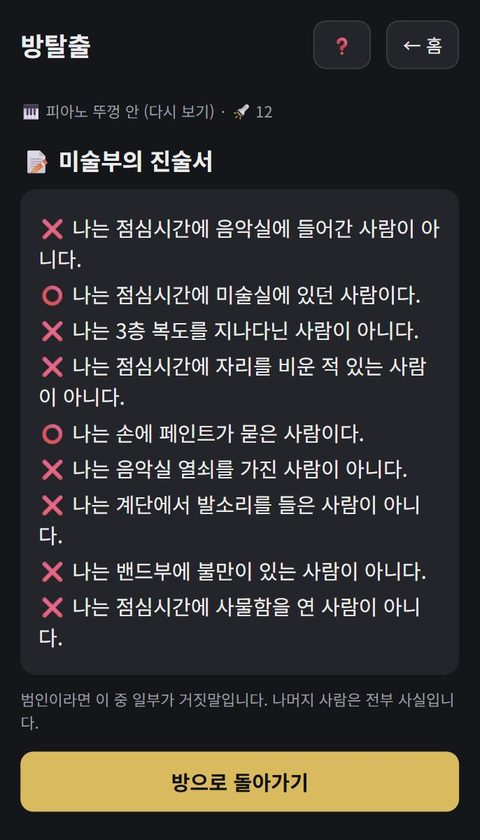
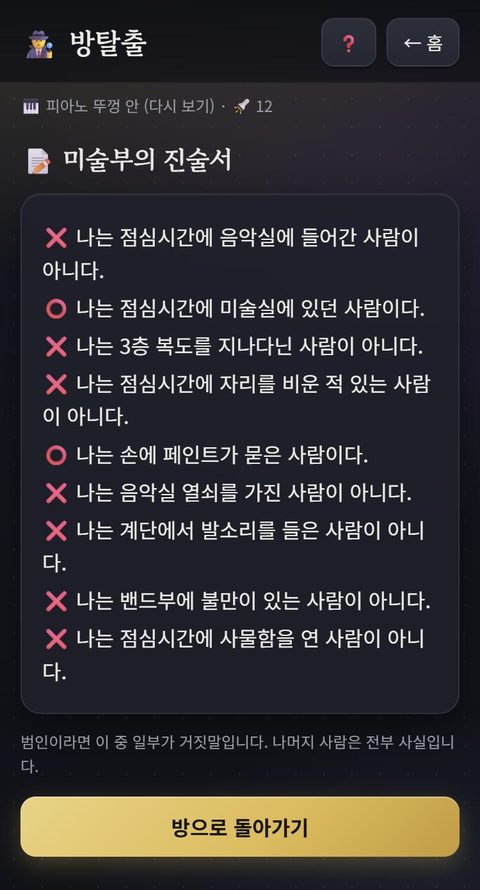
다크 노와르 테마로 리디자인
- style.css 전면 교체: 다층 그라데이션 + 점 패턴 배경, 반투명 카드·그림자, 금색 그라데이션 버튼,
  세리프 제목 글꼴(Gowun Batang), 비밀 카드 리본, 분류별 색띠 모드 카드, 등장 애니메이션, 시트 슬라이드업
- index.html: Google Fonts 링크 (오프라인이면 시스템 글꼴)
- app.js: 모드 카드에 분류 클래스, guide.js: 일일 사건 배지 정리
- img/guide: 새 디자인으로 예시 화면 18장 재촬영
- CLAUDE.md 디자인 규칙 추가

diff --git a/style.css b/style.css
@@ -1,56 +1,120 @@
+/* 탐정 사무소 — 다크 노와르 테마
+   토큰 → 배경 → 타이포 → 버튼 → 카드/입력 → 홈 → 모드별 부품 → 설명 시트 → 애니메이션 */
+
 :root {
-  --bg: #15161a;
-  --card: #23252b;
-  --card2: #2b2e36;
-  --text: #ececec;
-  --muted: #9a9ca3;
-  --accent: #e8b84a;
+  --bg: #0e1016;
+  --bg2: #151823;
+  --card: rgba(29, 32, 43, .88);
+  --card-solid: #1d202b;
+  --card2: #272b38;
+  --text: #ecebe6;
+  --muted: #9b9ea9;
+  --accent: #e9b94a;
+  --accent-2: #f3d27a;
+  --accent-ink: #1a1407;
   --danger: #e2574c;
-  --ok: #58b36a;
-  --border: #3a3d45;
+  --ok: #4fbf78;
+  --info: #7aa2f7;
+  --purple: #c678dd;
+  --border: rgba(255, 255, 255, .08);
+  --border-strong: rgba(255, 255, 255, .14);
+  --shadow: 0 10px 30px rgba(0, 0, 0, .45), 0 1px 0 rgba(255, 255, 255, .04) inset;
+  --radius: 16px;
+  --font: "Pretendard", "Noto Sans KR", -apple-system, "Malgun Gothic", sans-serif;
+  --font-display: "Gowun Batang", "Noto Serif KR", "Pretendard", serif;
 }
+
 * { box-sizing: border-box; }
 html { background: var(--bg); }
 body {
-  margin: 0 auto; background: var(--bg); color: var(--text);
-  font-family: -apple-system, "Pretendard", "Noto Sans KR", "Malgun Gothic", sans-serif;
-  max-width: 520px; padding: 0 16px 40px;
+  margin: 0 auto; min-height: 100vh; color: var(--text);
+  font-family: var(--font); max-width: 540px; padding: 0 16px 48px;
+  background:
+    radial-gradient(900px 500px at 15% -10%, rgba(233, 185, 74, .22), transparent 60%),
+    radial-gradient(700px 500px at 110% 105%, rgba(90, 140, 200, .20), transparent 60%),
+    radial-gradient(500px 400px at 85% 20%, rgba(198, 120, 221, .10), transparent 60%),
+    radial-gradient(rgba(255, 255, 255, .045) 1px, transparent 1.2px) 0 0 / 22px 22px,
+    linear-gradient(180deg, var(--bg2), var(--bg));
+  background-attachment: fixed;
+  -webkit-font-smoothing: antialiased;
 }
-header { display: flex; align-items: center; gap: 12px; padding: 16px 0; }
-h1 { font-size: 20px; margin: 0; flex: 1; }
-h2 { font-size: 18px; margin: 16px 0 8px; }
-h3 { font-size: 16px; margin: 12px 0 6px; }
-p { line-height: 1.5; margin: 8px 0; }
+body.no-scroll { overflow: hidden; }
+
+/* ---------- 타이포 ---------- */
+h1, h2, h3 { font-family: var(--font-display); letter-spacing: -.01em; }
+h1 { font-size: 22px; margin: 0; flex: 1; display: flex; align-items: center; gap: 8px; }
+h1::before { content: "🕵"; font-size: 22px; }
+h2 { font-size: 20px; margin: 18px 0 8px; }
+h3 { font-size: 16px; margin: 14px 0 6px; color: var(--accent-2); }
+p { line-height: 1.6; margin: 8px 0; }
 .muted { color: var(--muted); font-size: 14px; }
 .small-text { font-size: 12px; }
 .center { text-align: center; }
 .grow { flex: 1; }
-.big { font-size: 48px; margin: 12px 0; }
+.big { font-size: 52px; margin: 12px 0; line-height: 1.1; filter: drop-shadow(0 6px 12px rgba(0, 0, 0, .4)); }
 
-button {
-  background: var(--card); color: var(--text); border: 1px solid var(--border);
-  border-radius: 10px; padding: 12px 14px; font-size: 16px; cursor: pointer;
-  width: 100%; margin: 6px 0; text-align: left; font-family: inherit;
+/* ---------- 헤더 ---------- */
+header {
+  position: sticky; top: 0; z-index: 10; display: flex; align-items: center; gap: 8px;
+  padding: 14px 0 12px; margin: 0 -16px 6px; padding-left: 16px; padding-right: 16px;
+  background: linear-gradient(180deg, rgba(14, 16, 22, .95), rgba(14, 16, 22, .75));
+  backdrop-filter: blur(10px); -webkit-backdrop-filter: blur(10px);
+  border-bottom: 1px solid var(--border);
 }
-button:active { transform: scale(.99); }
-button.primary { background: var(--accent); color: #111; border: none; font-weight: 600; text-align: center; }
-button.danger { background: var(--danger); color: #fff; border: none; text-align: center; }
-button.ok { background: var(--ok); color: #fff; border: none; text-align: center; }
-button.small { width: auto; padding: 8px 12px; font-size: 14px; margin: 0; }
-button.mode b { display: block; margin-bottom: 2px; }
-button:disabled { opacity: .4; cursor: default; }
-header button { width: auto; margin: 0; padding: 8px 12px; font-size: 14px; }
+header button { width: auto; margin: 0; padding: 8px 12px; font-size: 14px; border-radius: 10px; }
+#help { padding: 8px 11px; }
 
-.card { background: var(--card); border-radius: 12px; padding: 14px; margin: 10px 0; }
-.card.alert { border: 1px solid var(--danger); }
-.card.good { border: 1px solid var(--ok); }
-.secret { background: #2a2420; border: 1px dashed var(--accent); }
+/* ---------- 버튼 ---------- */
+button {
+  background: linear-gradient(180deg, #2a2e3b, #222633); color: var(--text);
+  border: 1px solid var(--border); border-radius: 12px; padding: 12px 14px; font-size: 16px;
+  cursor: pointer; width: 100%; margin: 6px 0; text-align: left; font-family: inherit;
+  box-shadow: 0 2px 0 rgba(0, 0, 0, .25);
+  transition: transform .08s ease, border-color .15s ease, box-shadow .15s ease, filter .15s ease;
+}
+button:hover { border-color: var(--border-strong); filter: brightness(1.08); }
+button:active { transform: translateY(1px) scale(.995); box-shadow: none; }
+button.primary {
+  background: linear-gradient(135deg, var(--accent-2), var(--accent) 60%, #cf9a2f);
+  color: var(--accent-ink); border: none; font-weight: 700; text-align: center;
+  box-shadow: 0 6px 18px rgba(233, 185, 74, .28), 0 1px 0 rgba(255, 255, 255, .35) inset;
+}
+button.danger {
+  background: linear-gradient(135deg, #ef6b60, var(--danger) 70%, #b8382f);
+  color: #fff; border: none; text-align: center; font-weight: 600;
+  box-shadow: 0 6px 18px rgba(226, 87, 76, .25);
+}
+button.ok { background: linear-gradient(135deg, #63d08a, var(--ok)); color: #06200f; border: none; text-align: center; font-weight: 600; }
+button.small { width: auto; padding: 8px 12px; font-size: 14px; margin: 0; }
+button.mode { border-left: 3px solid var(--accent); padding-left: 14px; }
+button.mode b { display: block; margin-bottom: 2px; font-family: var(--font-display); font-size: 16px; }
+button:disabled { opacity: .4; cursor: default; filter: none; transform: none; }
+
+/* ---------- 카드 / 입력 ---------- */
+.card {
+  background: var(--card); border: 1px solid var(--border); border-radius: var(--radius);
+  padding: 16px; margin: 12px 0; box-shadow: var(--shadow);
+  backdrop-filter: blur(6px); -webkit-backdrop-filter: blur(6px);
+}
+.card.alert { border-color: rgba(226, 87, 76, .55); box-shadow: 0 10px 30px rgba(226, 87, 76, .12); }
+.card.good { border-color: rgba(79, 191, 120, .55); box-shadow: 0 10px 30px rgba(79, 191, 120, .10); }
+.secret {
+  position: relative; overflow: hidden;
+  background: linear-gradient(160deg, #2f271b, #211c15 70%);
+  border: 1px dashed rgba(233, 185, 74, .65);
+}
+.secret::after {
+  content: "비밀"; position: absolute; top: 10px; right: -26px; transform: rotate(35deg);
+  background: var(--accent); color: var(--accent-ink); font-size: 11px; font-weight: 700;
+  padding: 2px 32px; letter-spacing: .2em; opacity: .9;
+}
 
 input, select, textarea {
-  width: 100%; padding: 12px; font-size: 16px; border-radius: 10px;
-  border: 1px solid var(--border); background: var(--card); color: var(--text); margin: 6px 0;
-  font-family: inherit;
+  width: 100%; padding: 12px 14px; font-size: 16px; border-radius: 12px;
+  border: 1px solid var(--border-strong); background: #141722; color: var(--text); margin: 6px 0;
+  font-family: inherit; transition: border-color .15s, box-shadow .15s;
 }
+input:focus, select:focus, textarea:focus { outline: none; border-color: var(--accent); box-shadow: 0 0 0 3px rgba(233, 185, 74, .18); }
 select { appearance: auto; }
 textarea { resize: vertical; min-height: 60px; }
 
@@ -59,72 +123,122 @@ textarea { resize: vertical; min-height: 60px; }
 .row button { width: auto; flex: 0 0 auto; }
 .row button.grow { flex: 1; }
 
+/* ---------- 홈 ---------- */
+.hero {
+  position: relative; overflow: hidden;
+  background: linear-gradient(135deg, rgba(60, 46, 22, .92), rgba(29, 32, 43, .92) 65%);
+  border: 1px solid rgba(233, 185, 74, .35);
+}
+.hero::after {
+  content: "🔍"; position: absolute; right: -10px; bottom: -18px; font-size: 110px; opacity: .10;
+  transform: rotate(-12deg); pointer-events: none;
+}
+.hero h3 { margin-top: 0; color: var(--text); font-size: 19px; }
+.section-title {
+  display: flex; align-items: center; gap: 10px; font-size: 13px; color: var(--muted);
+  margin: 24px 0 6px; letter-spacing: .04em;
+}
+.section-title::after { content: ""; flex: 1; height: 1px; background: linear-gradient(90deg, var(--border-strong), transparent); }
+.mode-card {
+  --cat: var(--accent);
+  background: var(--card); border: 1px solid var(--border); border-left: 4px solid var(--cat);
+  border-radius: var(--radius); padding: 14px 16px; margin: 10px 0; box-shadow: var(--shadow);
+}
+.mode-card.type-party { --cat: var(--accent); }
+.mode-card.type-coop { --cat: var(--ok); }
+.mode-card.type-solo { --cat: var(--info); }
+.mode-card.type-daily { --cat: var(--purple); }
+.mode-card h3 { margin: 0 0 4px; font-size: 18px; color: var(--text); }
+.mode-card .row { margin-top: 10px; }
+.mode-card .row button { margin: 0; }
+.badges { display: flex; flex-wrap: wrap; gap: 5px; margin: 6px 0; }
+.badge {
+  font-size: 12px; background: rgba(255, 255, 255, .06); border: 1px solid var(--border);
+  border-radius: 999px; padding: 2px 9px; color: var(--muted);
+}
+.badge.key { color: var(--accent); border-color: rgba(233, 185, 74, .4); }
+
+/* ---------- 모드 공용 부품 ---------- */
 .fingers { font-size: 22px; letter-spacing: 2px; }
-.player { display: flex; justify-content: space-between; align-items: center; padding: 10px 0; border-bottom: 1px solid #333; gap: 8px; }
+.player { display: flex; justify-content: space-between; align-items: center; padding: 10px 0; border-bottom: 1px solid var(--border); gap: 8px; }
 .player:last-of-type { border-bottom: none; }
 .out { opacity: .4; text-decoration: line-through; }
-.tag { display: inline-block; background: #333; border-radius: 6px; padding: 2px 8px; font-size: 13px; margin: 2px; }
-.handoff { padding: 40px 0; }
+.tag { display: inline-block; background: var(--card2); border-radius: 6px; padding: 2px 8px; font-size: 13px; margin: 2px; }
+.handoff { padding: 48px 0; }
+.handoff .big { font-size: 72px; }
 
-/* 역할 카드 (이마 게임) */
-.role-card { text-align: center; padding: 24px 14px; }
-.role-card .role { font-size: 28px; font-weight: 700; color: var(--accent); margin: 6px 0; }
+/* 역할 카드 (이마 게임 / 이마 접기) */
+.role-card { text-align: center; padding: 28px 16px; }
+.role-card .role {
+  font-family: var(--font-display); font-size: 32px; font-weight: 700; margin: 6px 0;
+  background: linear-gradient(135deg, var(--accent-2), var(--accent)); -webkit-background-clip: text; background-clip: text; color: transparent;
+}
 .role-card .who { font-size: 18px; }
 
 /* 채팅 (AI 심문) */
-.chat { display: flex; flex-direction: column; gap: 8px; min-height: 200px; max-height: 55vh; overflow-y: auto; padding: 4px 0; }
-.bubble { max-width: 85%; padding: 10px 12px; border-radius: 14px; line-height: 1.45; white-space: pre-wrap; word-break: break-word; }
-.bubble.me { align-self: flex-end; background: var(--accent); color: #111; border-bottom-right-radius: 4px; }
-.bubble.them { align-self: flex-start; background: var(--card2); border-bottom-left-radius: 4px; }
+.chat {
+  display: flex; flex-direction: column; gap: 8px; min-height: 200px; max-height: 55vh; overflow-y: auto;
+  padding: 10px; background: rgba(0, 0, 0, .18); border: 1px solid var(--border); border-radius: var(--radius);
+}
+.bubble { max-width: 85%; padding: 10px 13px; border-radius: 16px; line-height: 1.5; white-space: pre-wrap; word-break: break-word; }
+.bubble.me { align-self: flex-end; background: linear-gradient(135deg, var(--accent-2), var(--accent)); color: var(--accent-ink); border-bottom-right-radius: 4px; }
+.bubble.them { align-self: flex-start; background: var(--card2); border: 1px solid var(--border); border-bottom-left-radius: 4px; }
 .bubble.sys { align-self: center; background: transparent; color: var(--muted); font-size: 13px; }
 .bubble.typing { opacity: .6; font-style: italic; }
-.suspect-tabs { display: flex; gap: 6px; overflow-x: auto; padding-bottom: 4px; }
-.suspect-tabs button { width: auto; flex: 0 0 auto; margin: 0; padding: 8px 12px; font-size: 14px; white-space: nowrap; }
-.suspect-tabs button.active { border-color: var(--accent); color: var(--accent); }
+.suspect-tabs { display: flex; gap: 6px; overflow-x: auto; padding-bottom: 6px; }
+.suspect-tabs button { width: auto; flex: 0 0 auto; margin: 0; padding: 8px 12px; font-size: 14px; white-space: nowrap; border-radius: 999px; }
+.suspect-tabs button.active { border-color: var(--accent); color: var(--accent); background: rgba(233, 185, 74, .10); }
 
 .rank li { padding: 6px 0; }
 
-/* 홈 */
-.section-title { font-size: 13px; color: var(--muted); margin: 20px 0 6px; letter-spacing: .3px; }
-.mode-card { background: var(--card); border-radius: 12px; padding: 14px; margin: 8px 0; }
-.mode-card h3 { margin: 0 0 4px; font-size: 17px; }
-.mode-card .row { margin-top: 10px; }
-.mode-card .row button { margin: 0; }
-.badges { display: flex; flex-wrap: wrap; gap: 4px; margin: 6px 0; }
-.badge { font-size: 12px; background: var(--card2); border-radius: 6px; padding: 2px 8px; color: var(--muted); }
-.badge.key { color: var(--accent); }
-.hero { background: linear-gradient(135deg, #2e2620, #23252b); border: 1px solid var(--border); }
-.hero h3 { margin-top: 0; }
+/* 방탈출 */
+.battery {
+  font-size: 16px; font-weight: 700; color: var(--accent); white-space: nowrap;
+  background: rgba(233, 185, 74, .10); border: 1px solid rgba(233, 185, 74, .35); border-radius: 999px; padding: 4px 12px;
+}
+.spots { display: grid; grid-template-columns: repeat(3, 1fr); gap: 10px; margin: 12px 0; }
+.spot {
+  margin: 0; padding: 12px 6px; min-height: 96px; font-size: 13px; text-align: center;
+  display: flex; flex-direction: column; align-items: center; justify-content: center; gap: 2px;
+  background: linear-gradient(180deg, #2b2f3c, #1f2230); border-radius: 14px;
+}
+.spot .emoji { font-size: 28px; line-height: 1.2; filter: drop-shadow(0 4px 8px rgba(0, 0, 0, .4)); }
+.spot.done { border-color: rgba(233, 185, 74, .55); background: linear-gradient(180deg, #332b1c, #241f16); }
+.statement p { margin: 4px 0; }
 
-/* 설명 시트 */
-body.no-scroll { overflow: hidden; }
-.overlay { position: fixed; inset: 0; background: rgba(0, 0, 0, .6); z-index: 50; display: flex; justify-content: center; align-items: flex-end; }
+/* ---------- 설명 시트 ---------- */
+.overlay { position: fixed; inset: 0; background: rgba(5, 6, 10, .7); z-index: 50; display: flex; justify-content: center; align-items: flex-end; backdrop-filter: blur(3px); }
 .overlay[hidden] { display: none; }
 .sheet {
-  background: var(--bg); width: 100%; max-width: 520px; max-height: 92vh; overflow-y: auto;
-  border-radius: 16px 16px 0 0; padding: 8px 16px 32px; border-top: 1px solid var(--border);
+  background: linear-gradient(180deg, #171a24, #0f1118); width: 100%; max-width: 540px; max-height: 92vh; overflow-y: auto;
+  border-radius: 20px 20px 0 0; padding: 8px 18px 36px; border: 1px solid var(--border-strong); border-bottom: none;
+  box-shadow: 0 -20px 60px rgba(0, 0, 0, .6); animation: slideUp .28s cubic-bezier(.2, .8, .2, 1) both;
 }
-.sheet-head { display: flex; align-items: center; gap: 8px; position: sticky; top: 0; background: var(--bg); padding: 10px 0 8px; z-index: 1; }
+.sheet::before { content: ""; display: block; width: 44px; height: 4px; border-radius: 2px; background: var(--border-strong); margin: 6px auto 2px; }
+.sheet-head { display: flex; align-items: center; gap: 8px; position: sticky; top: 0; background: #171a24; padding: 10px 0 8px; z-index: 1; }
 .sheet-head h2 { margin: 0; flex: 1; }
 .sheet-head button { width: auto; margin: 0; }
-.step { display: flex; gap: 10px; margin: 12px 0; }
-.step .num { flex: 0 0 28px; height: 28px; border-radius: 50%; background: var(--accent); color: #111; font-weight: 700; display: flex; align-items: center; justify-content: center; }
+.step { display: flex; gap: 12px; margin: 14px 0; }
+.step .num {
+  flex: 0 0 30px; height: 30px; border-radius: 50%; display: flex; align-items: center; justify-content: center;
+  background: linear-gradient(135deg, var(--accent-2), var(--accent)); color: var(--accent-ink); font-weight: 700;
+  box-shadow: 0 4px 10px rgba(233, 185, 74, .3);
+}
 .step b { display: block; }
 .step p { margin: 2px 0 0; }
-.step img, .sheet > img { display: block; width: 100%; max-width: 240px; border-radius: 10px; border: 1px solid var(--border); margin-top: 8px; }
-.shots { display: flex; gap: 8px; overflow-x: auto; margin: 8px 0; }
+.step img, .shots img { display: block; width: 100%; max-width: 240px; border-radius: 12px; border: 1px solid var(--border-strong); margin-top: 10px; box-shadow: var(--shadow); }
+.shots { display: flex; gap: 10px; overflow-x: auto; margin: 10px 0; padding-bottom: 4px; }
 .shots img { flex: 0 0 auto; width: 200px; max-width: none; margin-top: 0; }
-.term { margin: 8px 0; line-height: 1.5; }
+.term { margin: 8px 0; line-height: 1.6; }
 .term b { color: var(--accent); }
-.tips { padding-left: 20px; } .tips li { margin: 4px 0; line-height: 1.5; }
+.tips { padding-left: 20px; } .tips li { margin: 4px 0; line-height: 1.6; }
 
-/* 방탈출 */
-.battery { font-size: 18px; font-weight: 700; color: var(--accent); white-space: nowrap; }
-.spots { display: grid; grid-template-columns: repeat(3, 1fr); gap: 8px; margin: 10px 0; }
-.spot {
-  margin: 0; padding: 10px 6px; min-height: 92px; font-size: 13px; text-align: center;
-  display: flex; flex-direction: column; align-items: center; justify-content: center; gap: 2px;
-}
-.spot .emoji { font-size: 26px; line-height: 1.2; }
-.spot.done { border-color: var(--accent); background: #2a2420; }
-.statement p { margin: 4px 0; }
+/* ---------- 애니메이션 ---------- */
+#root > * { animation: rise .32s ease both; }
+#root > *:nth-child(2) { animation-delay: .04s; }
+#root > *:nth-child(3) { animation-delay: .08s; }
+#root > *:nth-child(4) { animation-delay: .12s; }
+#root > *:nth-child(5) { animation-delay: .16s; }
+@keyframes rise { from { opacity: 0; transform: translateY(8px); } to { opacity: 1; transform: none; } }
+@keyframes slideUp { from { transform: translateY(40px); opacity: 0; } to { transform: none; opacity: 1; } }
+@media (prefers-reduced-motion: reduce) { #root > *, .sheet { animation: none; } }

diff --git a/js/guide.js b/js/guide.js
@@ -110,7 +110,7 @@
       tips: ['같은 질문을 여러 명에게 던져 교차 검증하자.', '단서를 연 뒤 "이건 어떻게 설명할래?"라고 들이대면 범인은 흔들린다.', '질문이 다 떨어지면 지목만 할 수 있다. 2~3개는 남겨 두자.'],
     },
     daily: {
-      meta: { type: 'daily', players: '모드에 따라', time: '-', level: '-' },
+      meta: { type: 'daily', players: '모드에 따라 1~6명', time: '매일 새 사건' },
       tagline: '매일 새 사건이 자동으로 만들어진다. 오늘은 모두 같은 사건.',
       goal: '손으로 쓴 사건을 다 해 봤다면 여기서 무한히 새 사건을 뽑는다.',
       steps: [

diff --git a/index.html b/index.html
@@ -5,6 +5,10 @@
 <meta name="viewport" content="width=device-width, initial-scale=1">
 <meta name="theme-color" content="#15161a">
 <title>탐정 사무소</title>
+<!-- 글꼴: 본문 Noto Sans KR, 제목 Gowun Batang. 오프라인이면 시스템 글꼴로 대체됨 -->
+<link rel="preconnect" href="https://fonts.googleapis.com">
+<link rel="preconnect" href="https://fonts.gstatic.com" crossorigin>
+<link href="https://fonts.googleapis.com/css2?family=Gowun+Batang:wght@700&family=Noto+Sans+KR:wght@400;500;700&display=swap" rel="stylesheet">
 <link rel="stylesheet" href="style.css">
 </head>
 <body>

diff --git a/js/app.js b/js/app.js
@@ -22,7 +22,7 @@
 
   function modeCard(m) {
     const meta = DO.modeMeta ? DO.modeMeta(m.id) : {};
-    return h('div', { class: 'mode-card' },
+    return h('div', { class: 'mode-card' + (meta.type ? ' type-' + meta.type : '') },
       h('h3', {}, m.name + (m.ready ? '' : ' (준비 중)')),
       badges(meta),
       h('p', { class: 'muted' }, m.desc),

diff --git a/CLAUDE.md b/CLAUDE.md
@@ -63,6 +63,12 @@ DO.registerCase({
 - 알리바이 장소에 실제로 있던 사람은 딱 1명(증인). 그 증인의 "혼자 있었다" 증언이 알리바이 폭로 단서가 된다.
 - 단서는 3장: 알리바이 폭로 1, 현장 증거 1, 중립 1. 중립 단서가 먼저 나오게 배치하면 바로 들통나지 않는다.
 
+## 디자인 규칙 (style.css)
+- 다크 노와르 테마. 색은 전부 `:root` 토큰(`--accent` 금색, `--danger`, `--ok`, `--info`, `--purple`)으로. 배경은 body 의 다층 radial-gradient + 점 패턴(`background-attachment: fixed`).
+- 글꼴: 본문 Noto Sans KR(Pretendard 있으면 우선), 제목(h1~h3, `.role`, `button.mode b`) Gowun Batang 세리프. Google Fonts 링크가 index.html 에 있고 오프라인이면 시스템 글꼴로 대체된다.
+- 카드 `.card` 는 반투명 + blur + 그림자. `.secret` 은 금색 점선 + 오른쪽 위 "비밀" 리본(`::after`). 홈 모드 카드는 `type-party/coop/solo/daily` 클래스로 왼쪽 색띠가 바뀐다.
+- `#root` 직계 자식은 `rise` 애니메이션으로 올라온다. 스크린샷을 찍을 때는 0.8초 기다릴 것. `prefers-reduced-motion` 이면 꺼진다.
+
 ## 온보딩 규칙
 - 모드마다 `guide.js`의 GUIDES 에 tagline / goal / steps(제목+설명+예시 이미지) / example(구체 상황) / tips 를 쓴다. 홈 카드와 사건 선택 화면의 배지는 meta 에서 나온다.
 - 설명은 반드시 시트로 띄운다(`#root` 를 갈아끼우지 말 것). 게임 중 ❓ 를 눌러도 상태가 유지되어야 한다.
